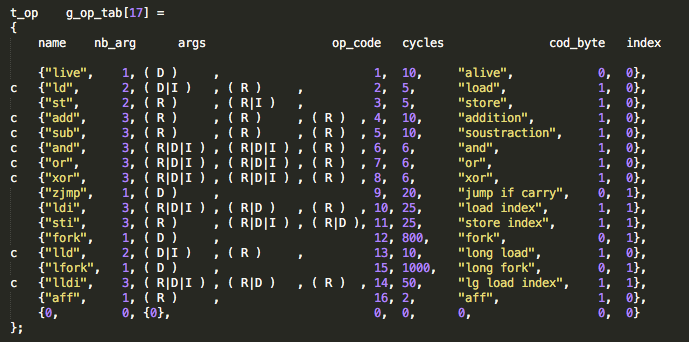
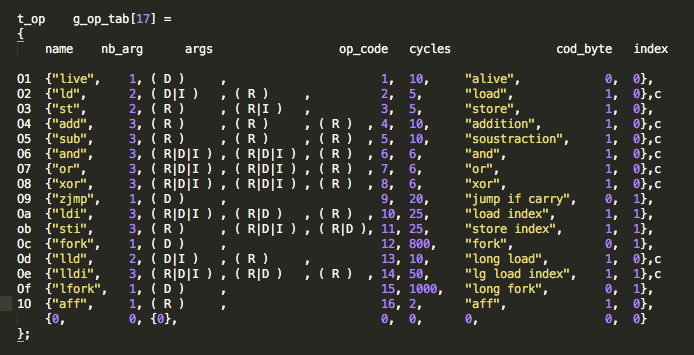
vm_test_run_battle.c

diff --git a/corewar/src/vm_test_battle.c b/corewar/src/vm_test_battle.c
@@ -1,0 +1,81 @@
+/* ************************************************************************** */
+/*                                                                            */
+/*                                                        :::      ::::::::   */
+/*   vm_test_battle.c                                   :+:      :+:    :+:   */
+/*                                                    +:+ +:+         +:+     */
+/*   By: edebise <edebise@student.42.fr>            +#+  +:+       +#+        */
+/*                                                +#+#+#+#+#+   +#+           */
+/*   Created: 2018/02/23 17:00:22 by edebise           #+#    #+#             */
+/*   Updated: 2018/02/23 17:00:23 by edebise          ###   ########.fr       */
+/*                                                                            */
+/* ************************************************************************** */
+
+#include "vm_0.h"
+
+void	vm_clean_process_list(t_all *all)
+{
+	t_process *process;
+	t_process *tmp;
+
+	process = all->process_list;
+	while (process)
+	{
+		if (!process->nb_live)
+		{
+			pf("kill process %d at %d cycles\n", process->nb, all->cycle);
+			tmp = process;
+			process = process->next;
+			vm_del_one_pro(&all->process_list, tmp);
+		}
+		else
+		{
+			process->nb_live = 0;
+			process = process->next;
+		}
+	}
+}
+
+void	vm_update_process(t_all *all, t_process *process)
+{
+	extern t_op	g_op_tab[];
+	int			op;
+
+	process->pc = vm_correct_addr(process->pc + process->step);
+	process->step = 1;
+	if ((op = vm_get_mem(all, process->pc, 1)) > 0 && op <= REG_NUMBER)
+		process->cycle = g_op_tab[op - 1].cycles;
+}
+
+void	vm_run_battle(t_all *all)
+{
+	t_process	*process;
+	int			op;
+
+	all->cycle_to_die = CYCLE_TO_DIE;
+	while ((process = all->process_list) && all->cycle_to_die > 0)
+	{
+		while (process)
+		{
+			if (process->cycle < 0)
+				vm_update_process(all, process);
+			if (!process->cycle && (op = vm_get_mem(all, process->pc, 1)) > 0 && op <= REG_NUMBER)
+				all->op_fn[op](all, process);
+			get_next_line(0, &all->gnl);				//	Debug
+			vm_print_arena(all, process);			//	Debug
+			--process->cycle;
+			process = process->next;
+		}
+		++all->cycle;
+		if (--all->cycle_to_die < 1)
+		{
+			vm_clean_process_list(all);
+			all->cycle_to_die = CYCLE_TO_DIE;
+			if (all->nb_live >= NBR_LIVE || ++all->nb_checks > MAX_CHECKS)
+			{
+				all->nb_checks = 0;
+				all->cycle_delta += CYCLE_DELTA;
+				all->cycle_to_die -= all->cycle_delta;
+			}
+		}
+	}
+}

diff --git a/corewar/src/op.c b/corewar/src/op.c
@@ -43,21 +43,21 @@ t_op	g_op_tab[17] =
 {
 	name	nb_arg		args				  op_code	cycles				 cod_byte	index
 
-	{"live",	1, ( D )     , 						1,	10,		"alive",			0,	0},
-c	{"ld",		2, ( D|I )   , ( R )     , 			2,	5,		"load",				1,	0},
-	{"st",		2, ( R )     , ( R|I )   , 			3,	5,		"store",			1,	0},
-c	{"add", 	3, ( R )     , ( R )     , ( R )  , 4,	10,		"addition", 		1,	0},
-c	{"sub", 	3, ( R )     , ( R )     , ( R )  ,	5,	10,		"soustraction", 	1,	0},
-c	{"and", 	3, ( R|D|I ) , ( R|D|I ) , ( R )  , 6,	6,		"and", 				1,	0},
-c	{"or", 		3, ( R|D|I ) , ( R|D|I ) , ( R )  , 7,	6,		"or",				1,	0},
-c	{"xor", 	3, ( R|D|I ) , ( R|D|I ) , ( R )  , 8,	6,		"xor",				1,	0},
-	{"zjmp", 	1, ( D )     , 						9,	20, 	"jump if carry",	0,	1},
-	{"ldi", 	3, ( R|D|I ) , ( R|D )   , ( R )  , 10,	25, 	"load index",		1,	1},
-	{"sti", 	3, ( R )     , ( R|D|I ) , ( R|D ), 11,	25,		"store index",		1,	1},
-	{"fork", 	1, ( D )     , 						12,	800,	"fork",				0,	1},
-c	{"lld", 	2, ( D|I )   , ( R )     , 			13,	10,		"long load",		1,	0},
-	{"lfork", 	1, ( D )     , 						15,	1000,	"long fork",		0,	1},
-c	{"lldi", 	3, ( R|D|I ) , ( R|D )   , ( R )  , 14,	50,		"lg load index",	1,	1},
-	{"aff", 	1, ( R )     , 						16,	2,		"aff",				1,	0},
+O1	{"live",	1, ( D )     , 						1,	10,		"alive",			0,	0},
+O2	{"ld",		2, ( D|I )   , ( R )     , 			2,	5,		"load",				1,	0},c
+O3	{"st",		2, ( R )     , ( R|I )   , 			3,	5,		"store",			1,	0},
+O4	{"add", 	3, ( R )     , ( R )     , ( R )  , 4,	10,		"addition", 		1,	0},c
+O5	{"sub", 	3, ( R )     , ( R )     , ( R )  ,	5,	10,		"soustraction", 	1,	0},c
+O6	{"and", 	3, ( R|D|I ) , ( R|D|I ) , ( R )  , 6,	6,		"and", 				1,	0},c
+O7	{"or", 		3, ( R|D|I ) , ( R|D|I ) , ( R )  , 7,	6,		"or",				1,	0},c
+O8	{"xor", 	3, ( R|D|I ) , ( R|D|I ) , ( R )  , 8,	6,		"xor",				1,	0},c
+O9	{"zjmp", 	1, ( D )     , 						9,	20, 	"jump if carry",	0,	1},
+Oa	{"ldi", 	3, ( R|D|I ) , ( R|D )   , ( R )  , 10,	25, 	"load index",		1,	1},
+ob	{"sti", 	3, ( R )     , ( R|D|I ) , ( R|D ), 11,	25,		"store index",		1,	1},
+Oc	{"fork", 	1, ( D )     , 						12,	800,	"fork",				0,	1},
+Od	{"lld", 	2, ( D|I )   , ( R )     , 			13,	10,		"long load",		1,	0},c
+Oe	{"lldi", 	3, ( R|D|I ) , ( R|D )   , ( R )  , 14,	50,		"lg load index",	1,	1},c
+Of	{"lfork", 	1, ( D )     , 						15,	1000,	"long fork",		0,	1},
+1O	{"aff", 	1, ( R )     , 						16,	2,		"aff",				1,	0},
 	{0, 		0, {0}, 							0, 	0, 		0, 					0, 	0}
 };*/

diff --git a/corewar/src/vm_st_sti_fork_lfork.c b/corewar/src/vm_st_sti_fork_lfork.c
@@ -36,6 +36,8 @@ void	vm_st(t_all *all, t_process *pro)
 			vm_put_color(all, pro, pro->pc + pro->arg[1], REG_SIZE);
 		}
 	}
+	else
+		ft_strcat(pro->op, " non valide");
 	pro->step += 1 + pro->arg_size[0] + pro->arg_size[1];
 }
 
@@ -60,6 +62,8 @@ void	vm_sti(t_all *all, t_process *pro)
 		vm_put_mem(all, pro->value[0], pro->pc + address, REG_SIZE);
 		vm_put_color(all, pro, pro->pc + address, REG_SIZE);
 	}
+	else
+		ft_strcat(pro->op, " non valide");
 	pro->step += 1 + pro->arg_size[0] + pro->arg_size[1] + pro->arg_size[2];
 }
 
@@ -71,10 +75,12 @@ void	vm_fork(t_all *all, t_process *pro)
 //	pf("{y}vm_fork\n{0}");						//	Debug
 	if (vm_check_and_get_args(all, pro, 12))
 	{
-		new_pc = ((pro->value[0] % IDX_MOD) + pro->pc) % MEM_SIZE;
+		new_pc = (pro->pc + (pro->value[0] % IDX_MOD)) % MEM_SIZE;
 		vm_add_pro_frt(&all->process_list, vm_new_pro(all, pro, new_pc));
-		init_pro_cycle(all, all->process_list);
+	//	init_pro_cycle(all, all->process_list);
 	}
+	else
+		ft_strcat(pro->op, " non valide");
 	pro->step += pro->arg_size[0];
 }
 
@@ -88,7 +94,9 @@ void	vm_lfork(t_all *all, t_process *pro)
 	{
 		new_pc = (pro->pc + pro->value[0]) % MEM_SIZE;
 		vm_add_pro_frt(&all->process_list, vm_new_pro(all, pro, new_pc));
-		init_pro_cycle(all, all->process_list);
+	//	init_pro_cycle(all, all->process_list);
 	}
+	else
+		ft_strcat(pro->op, " non valide");
 	pro->step += pro->arg_size[0];
 }

diff --git a/corewar/src/vm_add_sub_and_or_xor.c b/corewar/src/vm_add_sub_and_or_xor.c
@@ -25,6 +25,8 @@ void	vm_add(t_all *all, t_process *pro)
 		pro->r[pro->arg[2]] = pro->value[0] + pro->value[1];
 		pro->carry = (pro->r[pro->arg[2]] ? 0 : 1);
 	}
+	else
+		ft_strcat(pro->op, " non valide");
 	pro->step += 1 + pro->arg_size[0] + pro->arg_size[1] + pro->arg_size[2];
 }
 
@@ -41,6 +43,8 @@ void	vm_sub(t_all *all, t_process *pro)
 		pro->r[pro->arg[2]] = pro->value[0] - pro->value[1];
 		pro->carry = (pro->r[pro->arg[2]] ? 0 : 1);
 	}
+	else
+		ft_strcat(pro->op, " non valide");
 	pro->step += 1 + pro->arg_size[0] + pro->arg_size[1] + pro->arg_size[2];
 }
 
@@ -70,6 +74,8 @@ void	vm_and(t_all *all, t_process *pro)
 		*reg = rev_endian_int(pro->value[0] & pro->value[1]);
 		pro->carry = (*reg ? 0 : 1);
 	}
+	else
+		ft_strcat(pro->op, " non valide");
 	pro->step += 1 + pro->arg_size[0] + pro->arg_size[1] + pro->arg_size[2];
 }
 
@@ -99,6 +105,8 @@ void	vm_or(t_all *all, t_process *pro)
 		*reg = rev_endian_int(pro->value[0] | pro->value[1]);
 		pro->carry = (*reg ? 0 : 1);
 	}
+	else
+		ft_strcat(pro->op, " non valide");
 	pro->step += 1 + pro->arg_size[0] + pro->arg_size[1] + pro->arg_size[2];
 }
 
@@ -128,5 +136,7 @@ void	vm_xor(t_all *all, t_process *pro)
 		*reg = rev_endian_int(pro->value[0] ^ pro->value[1]);
 		pro->carry = (*reg ? 0 : 1);
 	}
+	else
+		ft_strcat(pro->op, " non valide");
 	pro->step += 1 + pro->arg_size[0] + pro->arg_size[1] + pro->arg_size[2];
 }

diff --git a/corewar/src/vm_ld_lld_ldi_lldi.c b/corewar/src/vm_ld_lld_ldi_lldi.c
@@ -41,6 +41,8 @@ void	vm_ld(t_all *all, t_process *pro)
 		pro->r[pro->arg[1]] = pro->value[0];
 		pro->carry = (pro->r[pro->arg[1]] ? 0 : 1);
 	}
+	else
+		ft_strcat(pro->op, " non valide");
 	pro->step += 1 + pro->arg_size[0] + pro->arg_size[1];
 }
 
@@ -74,6 +76,8 @@ void	vm_lld(t_all *all, t_process *pro)		//	A modifier, le lld de zaz ne prend
 		pro->r[pro->arg[1]] = pro->value[0];
 		pro->carry = (pro->r[pro->arg[1]] ? 0 : 1);
 	}
+	else
+		ft_strcat(pro->op, " non valide");
 	pro->step += 1 + pro->arg_size[0] + pro->arg_size[1];
 }
 
@@ -98,6 +102,8 @@ void	vm_ldi(t_all *all, t_process *pro)
 		address = pro->pc + ((pro->value[0] + pro->value[1]) % IDX_MOD);
 		pro->r[pro->arg[2]] = vm_get_mem(all, address, 4);
 	}
+	else
+		ft_strcat(pro->op, " non valide");
 	pro->step += 1 + pro->arg_size[0] + pro->arg_size[1] + pro->arg_size[2];
 }
 
@@ -124,5 +130,7 @@ void	vm_lldi(t_all *all, t_process *pro)
 		pro->r[pro->arg[2]] = vm_get_mem(all, address, 4);
 		pro->carry = (pro->r[pro->arg[2]] ? 0 : 1);
 	}
+	else
+		ft_strcat(pro->op, " non valide");
 	pro->step += 1 + pro->arg_size[0] + pro->arg_size[1] + pro->arg_size[2];
 }

diff --git a/corewar/src/vm_4_run_battle.c b/corewar/src/vm_4_run_battle.c
@@ -28,18 +28,16 @@ void		db_print_process(t_process *proc, int num)
 
 static void	vm_exec_inst(t_all *all, t_process *proc)
 {
-	//char	*gnl;
 	int		op;
 
 	proc->step = 1;
 	op = vm_get_mem(all, proc->pc, 1);
 	if (op > 0 && op < 17)
 	{
-		//get_next_line(0, &gnl);			//	Debug
 		all->op_fn[op](all, proc);
-		//pf("process->pc : %d\n", proc->pc);
-		/*vm_print_arena(all, proc);			//	Debug
-		sleep(1);*/
+//		get_next_line(0, &all->gnl);				//	Debug
+//		vm_print_arena(all, proc);					//	Debug
+		//sleep(1);
 	}
 	proc->pc = vm_correct_addr(proc->pc + proc->step);
 }
@@ -119,7 +117,7 @@ void	vm_run_battle(t_all *all)
 	int			db_i;
 
 	init_pro_cycle(all, NULL);
-	vm_print_arena(all, all->process_list);			//	Debug
+//	vm_print_arena(all, all->process_list);			//	Debug
 	sleep(1);
 	while (all->cycle_to_die && all->process_list)
 	{
@@ -136,7 +134,11 @@ void	vm_run_battle(t_all *all)
 				init_pro_cycle(all, current);
 			}
 			else
+			{
 				current->cycle--;
+			}
+			get_next_line(0, &all->gnl);				//	Debug
+			vm_print_arena(all, current);			//	Debug
 			current = current->next;
 			db_i++;
 		}

diff --git a/corewar/src/vm_live_zjmp_aff.c b/corewar/src/vm_live_zjmp_aff.c
@@ -35,6 +35,8 @@ void	vm_live(t_all *all, t_process *process)
 			if (process->value[0] == all->champ[n].nb)
 				all->last_live = n + 1;
 	}
+	else
+		ft_strcat(process->op, " non valide");
 	process->step += process->arg_size[0];
 }
 
@@ -53,7 +55,10 @@ void	vm_zjmp(t_all *all, t_process *pro)
 		pro->step = 0;
 	}
 	else
+	{
+		ft_strcat(pro->op, " non valide");
 		pro->step += pro->arg_size[0];
+	}
 }
 
 /*
@@ -77,5 +82,7 @@ void	vm_aff(t_all *all, t_process *process)
 		all->aff_str = str;
 		write(1, all->aff_str, ++all->aff_str_size);
 	}
+	else
+		ft_strcat(process->op, " non valide");
 	process->step += 1 + process->arg_size[0];
 }

diff --git a/corewar/include/vm_0.h b/corewar/include/vm_0.h
@@ -35,6 +35,7 @@ typedef	struct			s_process
 	struct s_process	*prev;
 	struct s_process	*next;
 	char				op[20];			// Debug
+	int					nb;
 }						t_process;
 
 typedef	struct			s_champ
@@ -56,15 +57,18 @@ typedef	struct			s_all
 	void 				(*op_fn[17])(struct s_all*, t_process*);
 	t_process			*process_list;
 	int					nb_champ;
+	int					nb_process;
 	int					flag;
 	int					dump;
 	int					cycle;
+	int					cycle_delta;
 	int					cycle_to_die;
 	int					nb_live;
 	int					last_live;
 	int					nb_checks;
 	int					aff_str_size;
 	char				*aff_str;
+	char				*gnl;
 	char				arena[MEM_SIZE];
 	char				color[MEM_SIZE];
 	WINDOW				*win_arena;

diff --git a/corewar/src/vm_0_main.c b/corewar/src/vm_0_main.c
@@ -119,7 +119,7 @@ int		main(int ac, char **av)
 	vm_run_battle(&all);
 	if (all.last_live)
 		all.last_live--;
-	pf("Le joueur %d (%s) a gagné !\n", all.champ[all.last_live].nb, all.champ[all.last_live].header.prog_name);
+	pf("Le joueur %d (%s) a gagné après %d cycles !\n", all.champ[all.last_live].nb, all.champ[all.last_live].header.prog_name, all.cycle);
 	pf("%s%s\n{0}", all.champ[all.last_live].color, all.champ[all.last_live].header.comment);
 	vm_exit(&all, NULL);
 	return (0);

diff --git a/corewar/src/vm_3_set_match.c b/corewar/src/vm_3_set_match.c
@@ -45,7 +45,7 @@ void	vm_print_arena(t_all *all, t_process *pro)
 	{
 		if (all->color[pro->pc % MEM_SIZE] >= 0)
 			pf(all->champ[(int)all->color[pro->pc % MEM_SIZE]].color);
-		pf("\tpc %-4d (y %d, x %d)\t{y}op %s{0}\n", pro->pc, pro->pc / 64, pro->pc % 64, pro->op);
+		pf("\tpc%-2d %-4d (y %d, x %d)\t{y}op %s{0}\n", pro->nb, pro->pc, pro->pc / 64, pro->pc % 64, pro->op);
 	}
 	y = 0;
 	while (y < 64)

diff --git a/corewar/src/vm_5_process_tools.c b/corewar/src/vm_5_process_tools.c
@@ -23,6 +23,8 @@ t_process	*vm_new_pro(t_all *all, t_process *father, int pc)
 		new->carry = father->carry;
 	}
 	new->pc = pc;
+	new->cycle = -1;
+	new->nb = ++all->nb_process;
 	return (new);
 }
 
